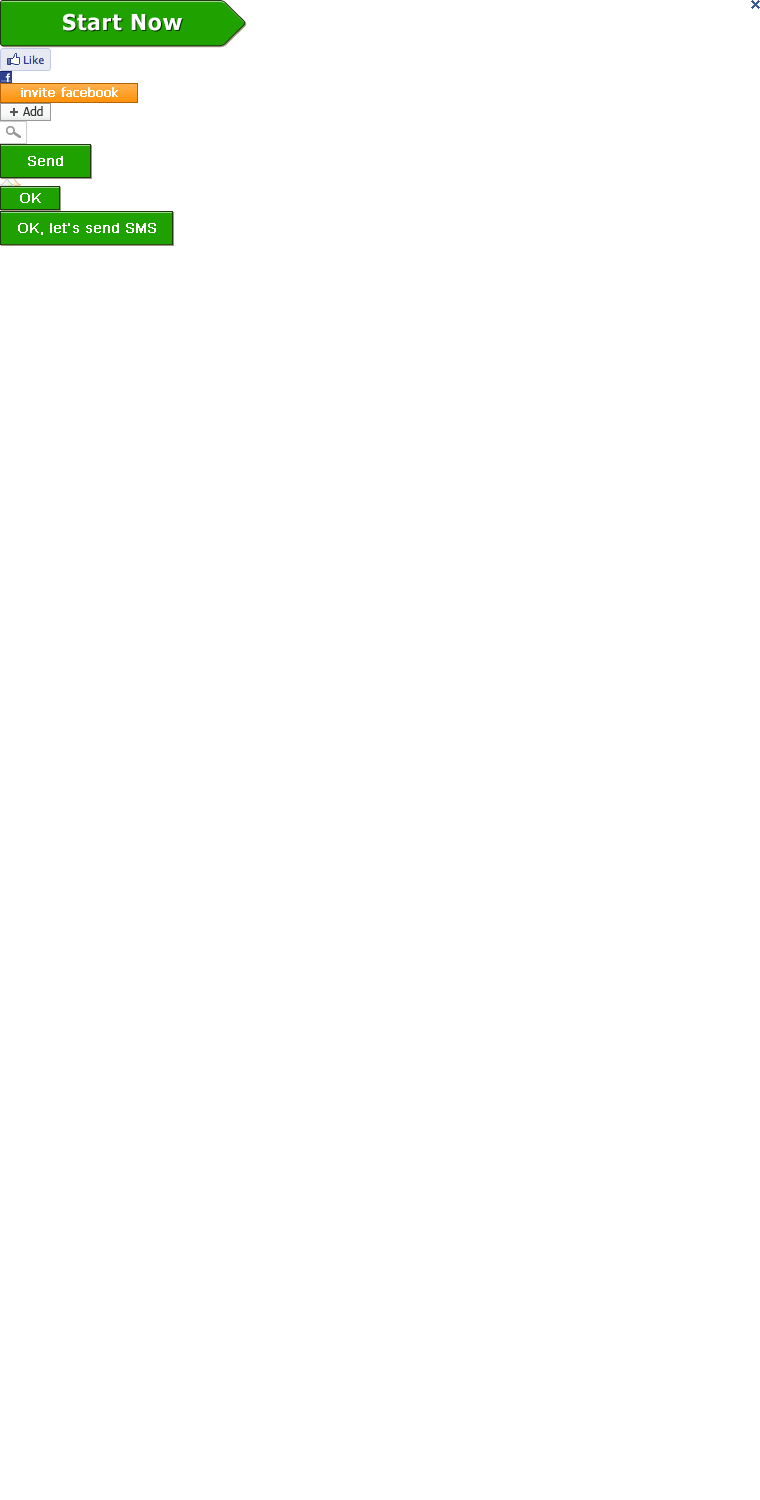
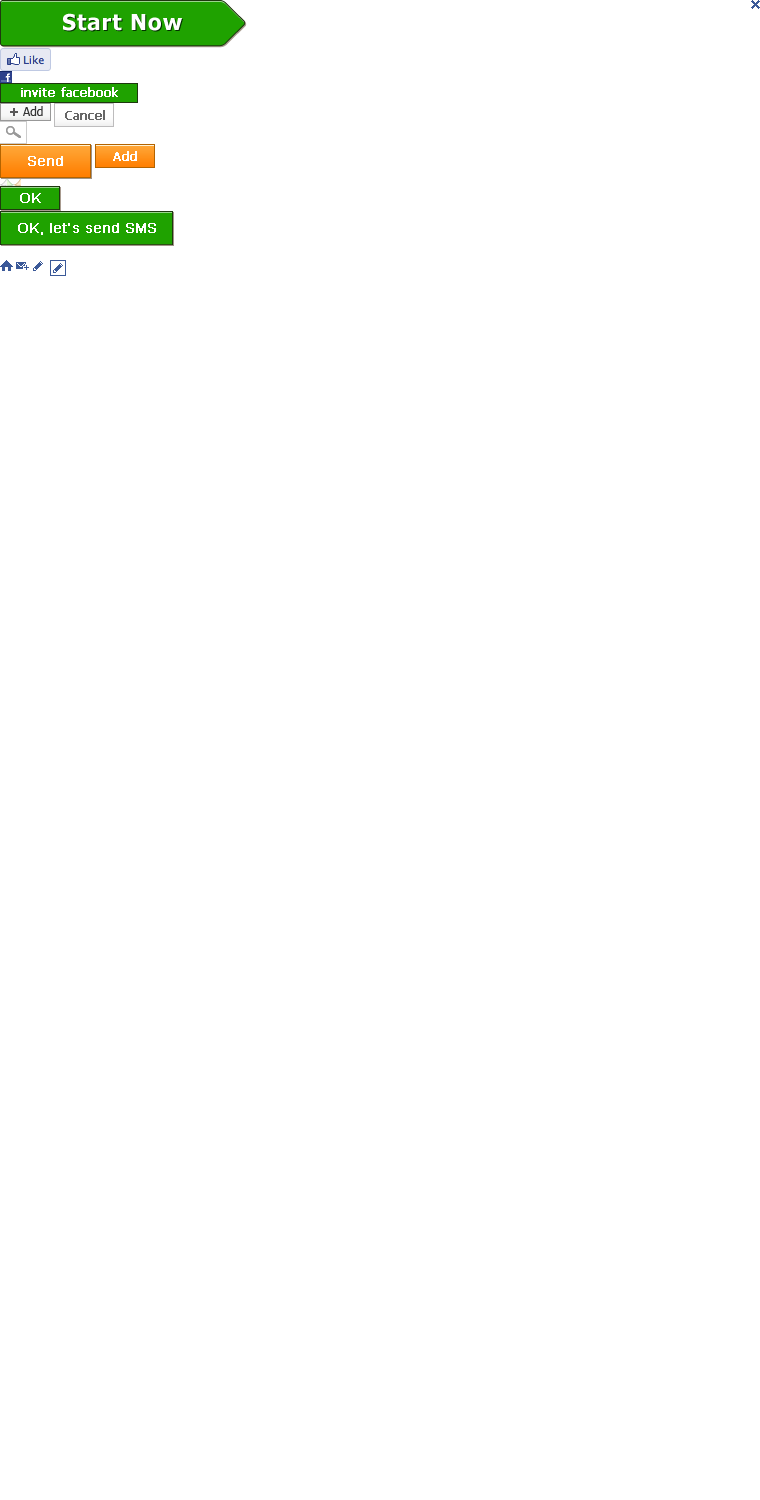
add new style

Changed region(s): [[0.0, 0.0307, 0.2118, 0.1227], [0.0, 0.1533, 0.0303, 0.184]]

diff --git a/f2c/css/style.css b/f2c/css/style.css
@@ -47,7 +47,7 @@ label.checkbox, label.radio, label.text{padding-left: 4px;vertical-align: top;}
 .bold{font-weight:bold;}
 .position{position:relative;}
 /*structure*/
-.b-star,.like,.f,.invite a,a.add,.search input.search_btn,.contacts li span.remove a,.txt_box .txt b,.btn_send,.btn_ok,a.a_send{background:url(../images/img_bg.png) no-repeat;}
+.b-star,.like,.f,.invite a,a.add,.search input.search_btn,.contacts li span.remove a,.txt_box .txt b,.btn_send,.btn_ok,a.a_send,span.icon_m2you,span.add,span.sign,.contacts li span.editorname a,a.btn_add,a.btn_cancel{background:url(../images/img_bg.png) no-repeat;}
 
 #maincolumn{width:760px; margin:0 auto;}
 .m2you{height:101px; background:url(../images/bg_pic.jpg) no-repeat;}
@@ -98,21 +98,24 @@ a.add{width:51px; height:18px; display:block; background-position:0 -103px;}
 .search input.search_btn{width:27px; height:23px; float:left; background-position:0 -121px;border:0;}
 .contacts li{height:20px;margin-bottom:10px;line-height:20px;color:#666;cursor:pointer;}
 .contacts li span{display:block;float:left;text-indent:6px;}
-.contacts li span.name{width:35%;}
-.contacts li span.phone{width:65%;}
+.contacts li span.name{width:30%;}
+.contacts li span.phone{width:60%;}
+.contacts li span.editorname{width:10%;}
+.contacts li span.editorname a{display:none;}
+
 .contacts li:hover, .contacts li.current{background:#d8dfea}
 .contacts li.new{background:#FFECBF}
+.contacts li:hover span.editorname a{width:16px; height:16px; background-position:-50px -260px;display:block; margin-top:2px;}
 
 .mail_box{width:308px;padding-top:39px; border:#dadada solid 1px;background:url(../images/bg_pic-2.jpg) no-repeat top; float:right;}
 .txt_box{height:363px;padding:0 10px;background:#fff;border-top:#ccc solid 1px;border-bottom:#ccc solid 1px;position:relative;overflow-y:scroll;}
 .txt_box .txt{border-width:1px; border-style:solid;padding:5px; position:relative;width:237px;min-height:20px;_height:20px; margin-top:10px; color:#333;}
 .txt_box .txt b{font-size:0;line-height:0;width:7px; height:7px; display:block;position:absolute;bottom:4px;}
-.txt_box .in{border-color:#ccc; background:url(../images/bg_txt_in.png) repeat-x bottom #fff;float:left;}
-.txt_box .in b{left:-7px; background-position:0 -179px;}
+.txt_box .in{border-color:#ddbc92;background:url(../images/bg_txt_sending.png) repeat-x bottom #fff8eb; float:left}
+.txt_box .in b{left:-7px;background-position:-14px -179px;}
 .txt_box .out{border-color:#b5d5b7; background:url(../images/bg_txt_out.png) repeat-x bottom #f4ffeb; float:right}
 .txt_box .out b{right:-7px;background-position:-7px -179px;}
-.txt_box .sending{border-color:#ddbc92;background:url(../images/bg_txt_sending.png) repeat-x bottom #fff8eb; float:right}
-.txt_box .sending b{right:-7px;background-position:-14px -179px;}
+ 
 .editor_box{padding:10px; background:#f2f2f2;}
 .editor_box textarea{width:276px; height:57px; border:#ccc solid 1px;padding:5px;}
 .editor_box textarea.focus{border:#2276bb solid 1px;}
@@ -126,3 +129,17 @@ a.add{width:51px; height:18px; display:block; background-position:0 -103px;}
 .signature textarea{width:258px; height:57px;padding:5px; border:#ccc solid 1px;margin-top:10px;}
 .signature textarea.focus{border:#2276bb solid 1px;}
 .btn_ok{width:61px; height:25px; background-position:0 -186px;border:0;margin-top:10px;cursor:pointer;}
+
+span.icon_m2you,span.add,span.sign{width:13px; height:11px;margin-right:3px; display:inline-block;}
+span.icon_m2you{background-position:0 -260px;}
+span.add{background-position:-16px -260px;}
+span.sign{background-position:-32px -260px;}
+
+/* layer_add */
+.layer_add{width:182px;margin:10px;}
+.layer_add input.i-n{width:172px; padding:4px; border:#ccc solid 1px;}
+.layer_add h2{margin-bottom:5px;font-weight:bold;}
+.layer_add p{margin-bottom:10px;}
+a.btn_add,a.btn_cancel{width:60px; height:24px; display:inline-block;}
+a.btn_add{background-position:-95px -144px; margin:0 5px 0 30px;}
+a.btn_cancel{background-position:-54px -103px;}

diff --git a/f2c/js/jquery.feedlist.js b/f2c/js/jquery.feedlist.js
@@ -1,19 +1,24 @@
 ;(function($){
-	var feedListCache = {};
+	var feedListCache = {},currentList = null;
 	$.extend({
-		getFeedContainer:function(userid,box){
+		feedlist:function(userid,box){
 			var container =feedListCache[userid];
+			if(!box) box = document.body;
+			if(!currentList){
+				currentList = $(box).find('div.txt_box:visible');
+			}
 			if(!container){
-				if(!box) box = document.body;
-				var $c = $box.append('<div class="txt_box" style="display:none" rel="'+userid+'"></div>');
+				var $c = $('<div class="txt_box" style="display:none" rel="'+userid+'"></div>').appendTo(box);
 				container = feedListCache[userid] = $c;
 			};
+			currentList.hide();
+			currentList = container;	
 			return container;
 		}
 	});
 	$.fn.extend({
-		getFeedContainer:function(userid){
-			return $.getFeedContainer(userid ,this);
+		feedlist:function(userid){
+			return $.feedlist(userid ,this);
 		}
 
 	});

diff --git a/f2c/js/jquery.searchlist.js b/f2c/js/jquery.searchlist.js
@@ -2,11 +2,12 @@
 	var $userList = null;
 	$.extend({
 		searchList:function(input,box){
-			if(str == $("#searchKey").attr("title")){
+			/*
+			if(str == $(input).attr("title")){
 		        str = "";
 	        }
 	        if(str){
-	            var regex = eval("/\\d+\\t\\d+\\t.*"+str+".*/gi");
+	            var regex = eval("\/\\d+\\t\\d+\\t.*"+str+".*\/gi");
 	            var i= 0;
 	            var temp = [];
 	            $(searchIndex).each(function(index,item){
@@ -36,9 +37,11 @@
 	        }else{
 	            showSearchBtn("close");
 	        }
-		return $(box).each({
 
-		});
+			*/
+			return $(box).each(function(index,item){
+				
+			});
 		}
 	});
 	$.fn.extend({
